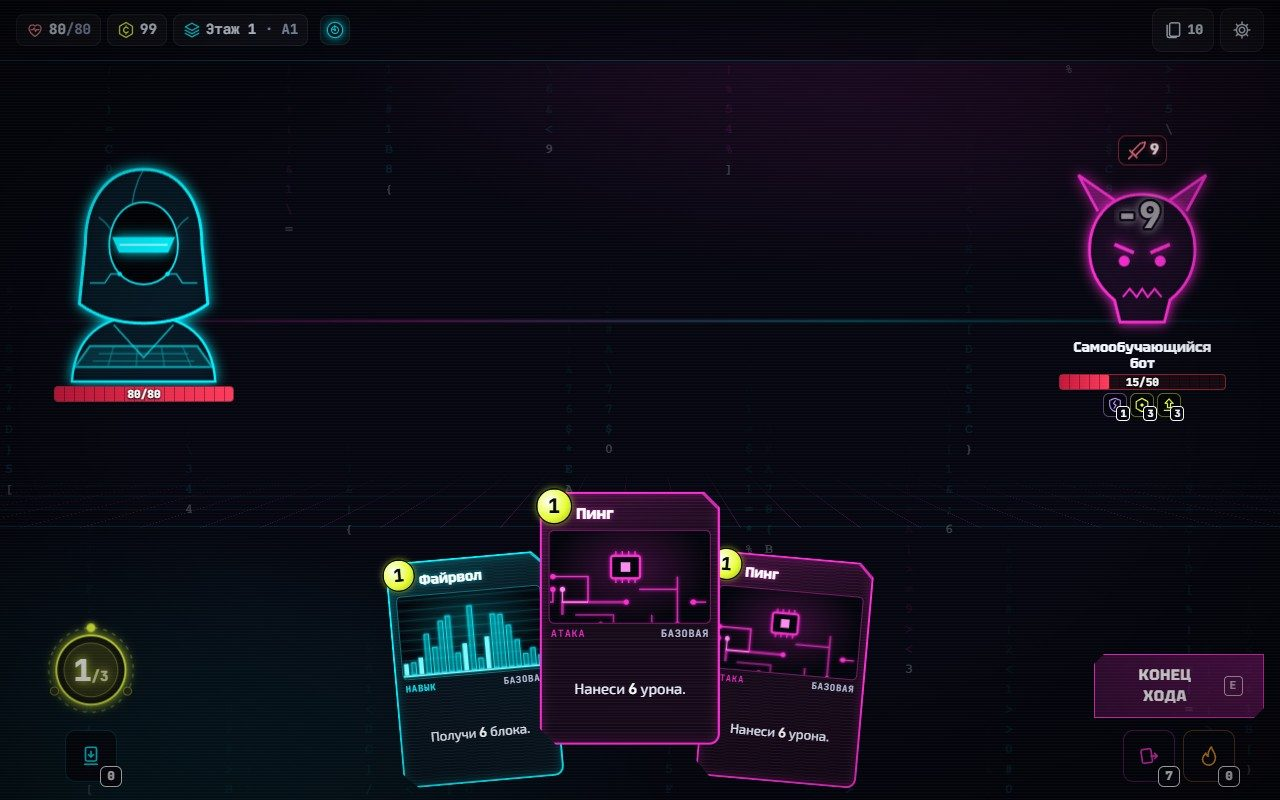
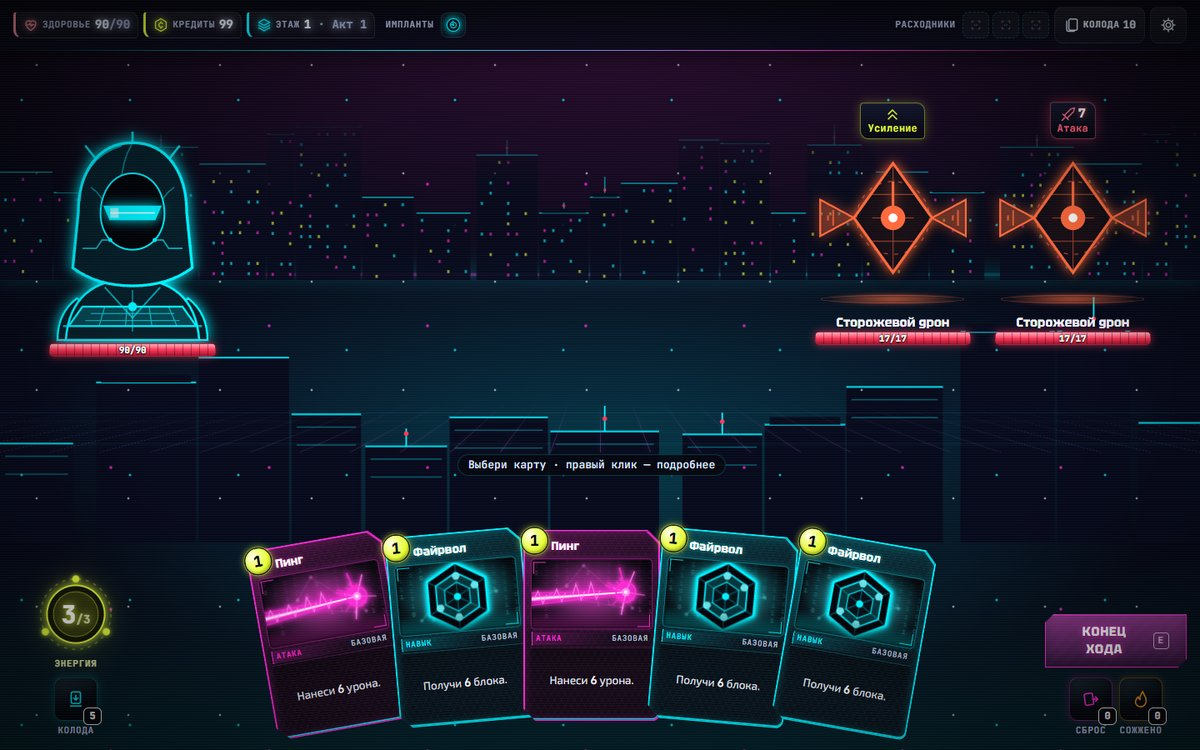
CyberHack: актуальные описание, обложка, карта и демо-гифка

diff --git a/src/data/content.ts b/src/data/content.ts
@@ -128,9 +128,9 @@ export const works: Work[] = [
     category: 'game',
     title: 'CyberHack',
     type: 'Игра',
-    text: 'Карточный roguelike в неоновом киберпанке: собираешь колоду программ-взломщиков и проходишь три акта охранных систем. Играется в браузере, на телефоне и ставится как приложение.',
+    text: 'Карточный roguelike в неоновом киберпанке: собираешь колоду программ-взломщиков и проходишь четыре акта охранных систем. Играется в браузере, на телефоне и ставится как приложение.',
     features: [
-      'Три класса, 100+ карт, 63 реликвии, 15 уровней сложности',
+      '8 классов, 250+ карт, 90+ реликвий, расходники, мутаторы и 15 уровней сложности',
       'Ежедневный забег и ачивки, которые открывают новые карты',
       'Баланс выверен ботами на тысячах автоматических забегов',
       'Работает офлайн, есть версии для Windows, macOS, Linux и Android',
